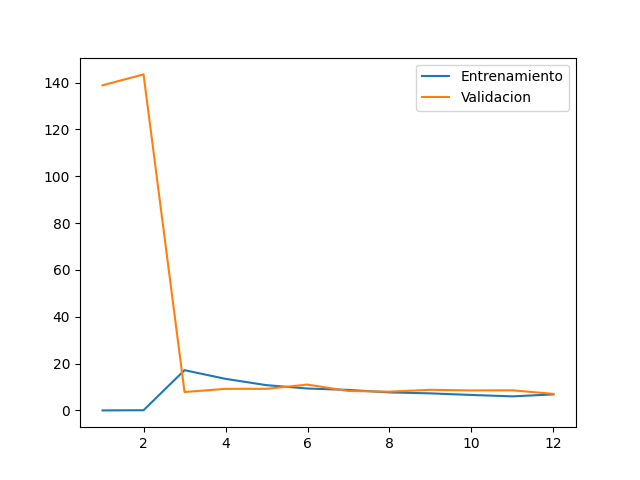
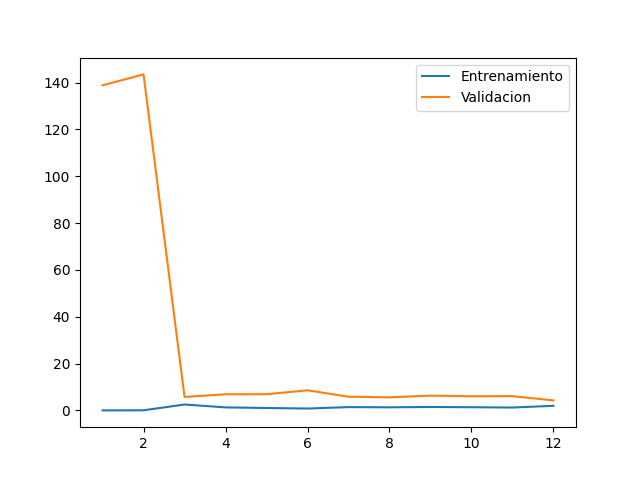
Seleccion lambda

Changed region(s): [[0.25, 0.75, 0.875, 0.875], [0.25, 0.4688, 0.2812, 0.7188], [0.2188, 0.8125, 0.2812, 0.875]]

diff --git a/P5_RegresionLinealSesgo&Varianza/prac5.py b/P5_RegresionLinealSesgo&Varianza/prac5.py
@@ -50,8 +50,8 @@ def calculaError(X,y, reg, Xval, Yval):
 	for i in range(1,m+1):
 		theta = np.zeros(np.shape(X)[1])
 		result = optimize.minimize(all, theta, args = (X[0:i], y[0:i,0], reg), jac = True, method = 'TNC')
-		errorEntrenamiento[i-1] = costeRegularizado(result.x,X[0:i],y[0:i],reg)
-		errorValidacion[i-1] = costeRegularizado(result.x,Xval,Yval,reg)
+		errorEntrenamiento[i-1] = costeRegularizado(result.x,X[0:i],y[0:i],0)
+		errorValidacion[i-1] = costeRegularizado(result.x,Xval,Yval,0)
 	
 	return errorEntrenamiento,errorValidacion
 
@@ -113,8 +113,50 @@ def normaliza_matriz(mat):
     mat_norm = (mat - medias)/desviaciones
     return mat_norm, medias, desviaciones
 
+def calculaErroresPolinomial(XextendidoNor,y,XvalPolinomial,yval):
+	eEntPoli, eValPoli = calculaError(XextendidoNor,y,0,XvalPolinomial,yval)
+	plotErrorPolinomial(eEntPoli,eValPoli,"0")
+
+	eEntPoli, eValPoli = calculaError(XextendidoNor,y,1,XvalPolinomial,yval)
+	plotErrorPolinomial(eEntPoli,eValPoli,"1")
+	
+	eEntPoli, eValPoli = calculaError(XextendidoNor,y,50,XvalPolinomial,yval)
+	plotErrorPolinomial(eEntPoli,eValPoli,"50")
+
+	eEntPoli, eValPoli = calculaError(XextendidoNor,y,100,XvalPolinomial,yval)
+	plotErrorPolinomial(eEntPoli,eValPoli,"100")
+
+def lambdasOptimos(XvalPolinomial, XextendidoNor, yval, y):
+	#Lambda optimo
+	lambdas = [0, 0.001, 0.003, 0.01, 0.03, 0.1, 0.3, 1, 3, 10]
+	
+	errorValidacion = []
+	errorEntrenamiento = []
+	XvalPolinomial = np.hstack([np.ones([np.shape(XvalPolinomial)[0],1]),XvalPolinomial])
+	for i in lambdas:
+		theta = np.zeros(np.shape(XextendidoNor)[1])
+		result = optimize.minimize(all, theta, args = (XextendidoNor, y, i), jac = True, method = 'TNC')
+		errorEntrenamiento.append(costeRegularizado(result.x,XextendidoNor,y,0))
+		errorValidacion.append(costeRegularizado(result.x,XvalPolinomial,yval,0))
+
+	plt.clf()
+	plt.plot(lambdas,errorEntrenamiento,label="Entrenamiento")
+	plt.plot(lambdas,errorValidacion,label="Validacion")
+	plt.legend()
+	plt.savefig("PruebasLambdas")
+
+def errorConPrueba(theta, XextendidoNor, XTest,  y, yTest, medias, desviaciones):
+	result = optimize.minimize(all, theta, args = (XextendidoNor, y, 3), jac = True, method = 'TNC')
+
+	xTestPolinomial = nuevosDatos(XTest,8)
+	xTestPolinomial = (xTestPolinomial - medias) / desviaciones
+	xTestPolinomial = np.hstack([np.ones([np.shape(xTestPolinomial)[0],1]),xTestPolinomial])
+
+	error = costeRegularizado(result.x,xTestPolinomial,yTest,0)
+	print(error)
+
 def main():
-	Xorig,y, Xval, yval, XTest, yTest = loadData()
+	Xorig, y, Xval, yval, XTest, yTest = loadData()
 	reg = 0
 	m = np.shape(Xorig)[0]
 
@@ -141,15 +183,10 @@ def main():
 	XvalPolinomial = nuevosDatos(Xval,8)
 	XvalPolinomial = (XvalPolinomial-medias) / desviaciones
 
-	eEntPoli, eValPoli = calculaError(XextendidoNor,y,0,XvalPolinomial,yval)
-	plotErrorPolinomial(eEntPoli,eValPoli,"0")
+	calculaErroresPolinomial(XextendidoNor,y,XvalPolinomial,yval)
 
-	eEntPoli, eValPoli = calculaError(XextendidoNor,y,1,XvalPolinomial,yval)
-	plotErrorPolinomial(eEntPoli,eValPoli,"1")
+	lambdasOptimos(XvalPolinomial, XextendidoNor, yval, y)
 	
-	eEntPoli, eValPoli = calculaError(XextendidoNor,y,50,XvalPolinomial,yval)
-	plotErrorPolinomial(eEntPoli,eValPoli,"50")
+	errorConPrueba(theta, XextendidoNor, XTest, y, yTest, medias, desviaciones)
 
-	eEntPoli, eValPoli = calculaError(XextendidoNor,y,100,XvalPolinomial,yval)
-	plotErrorPolinomial(eEntPoli,eValPoli,"100")
 main()
